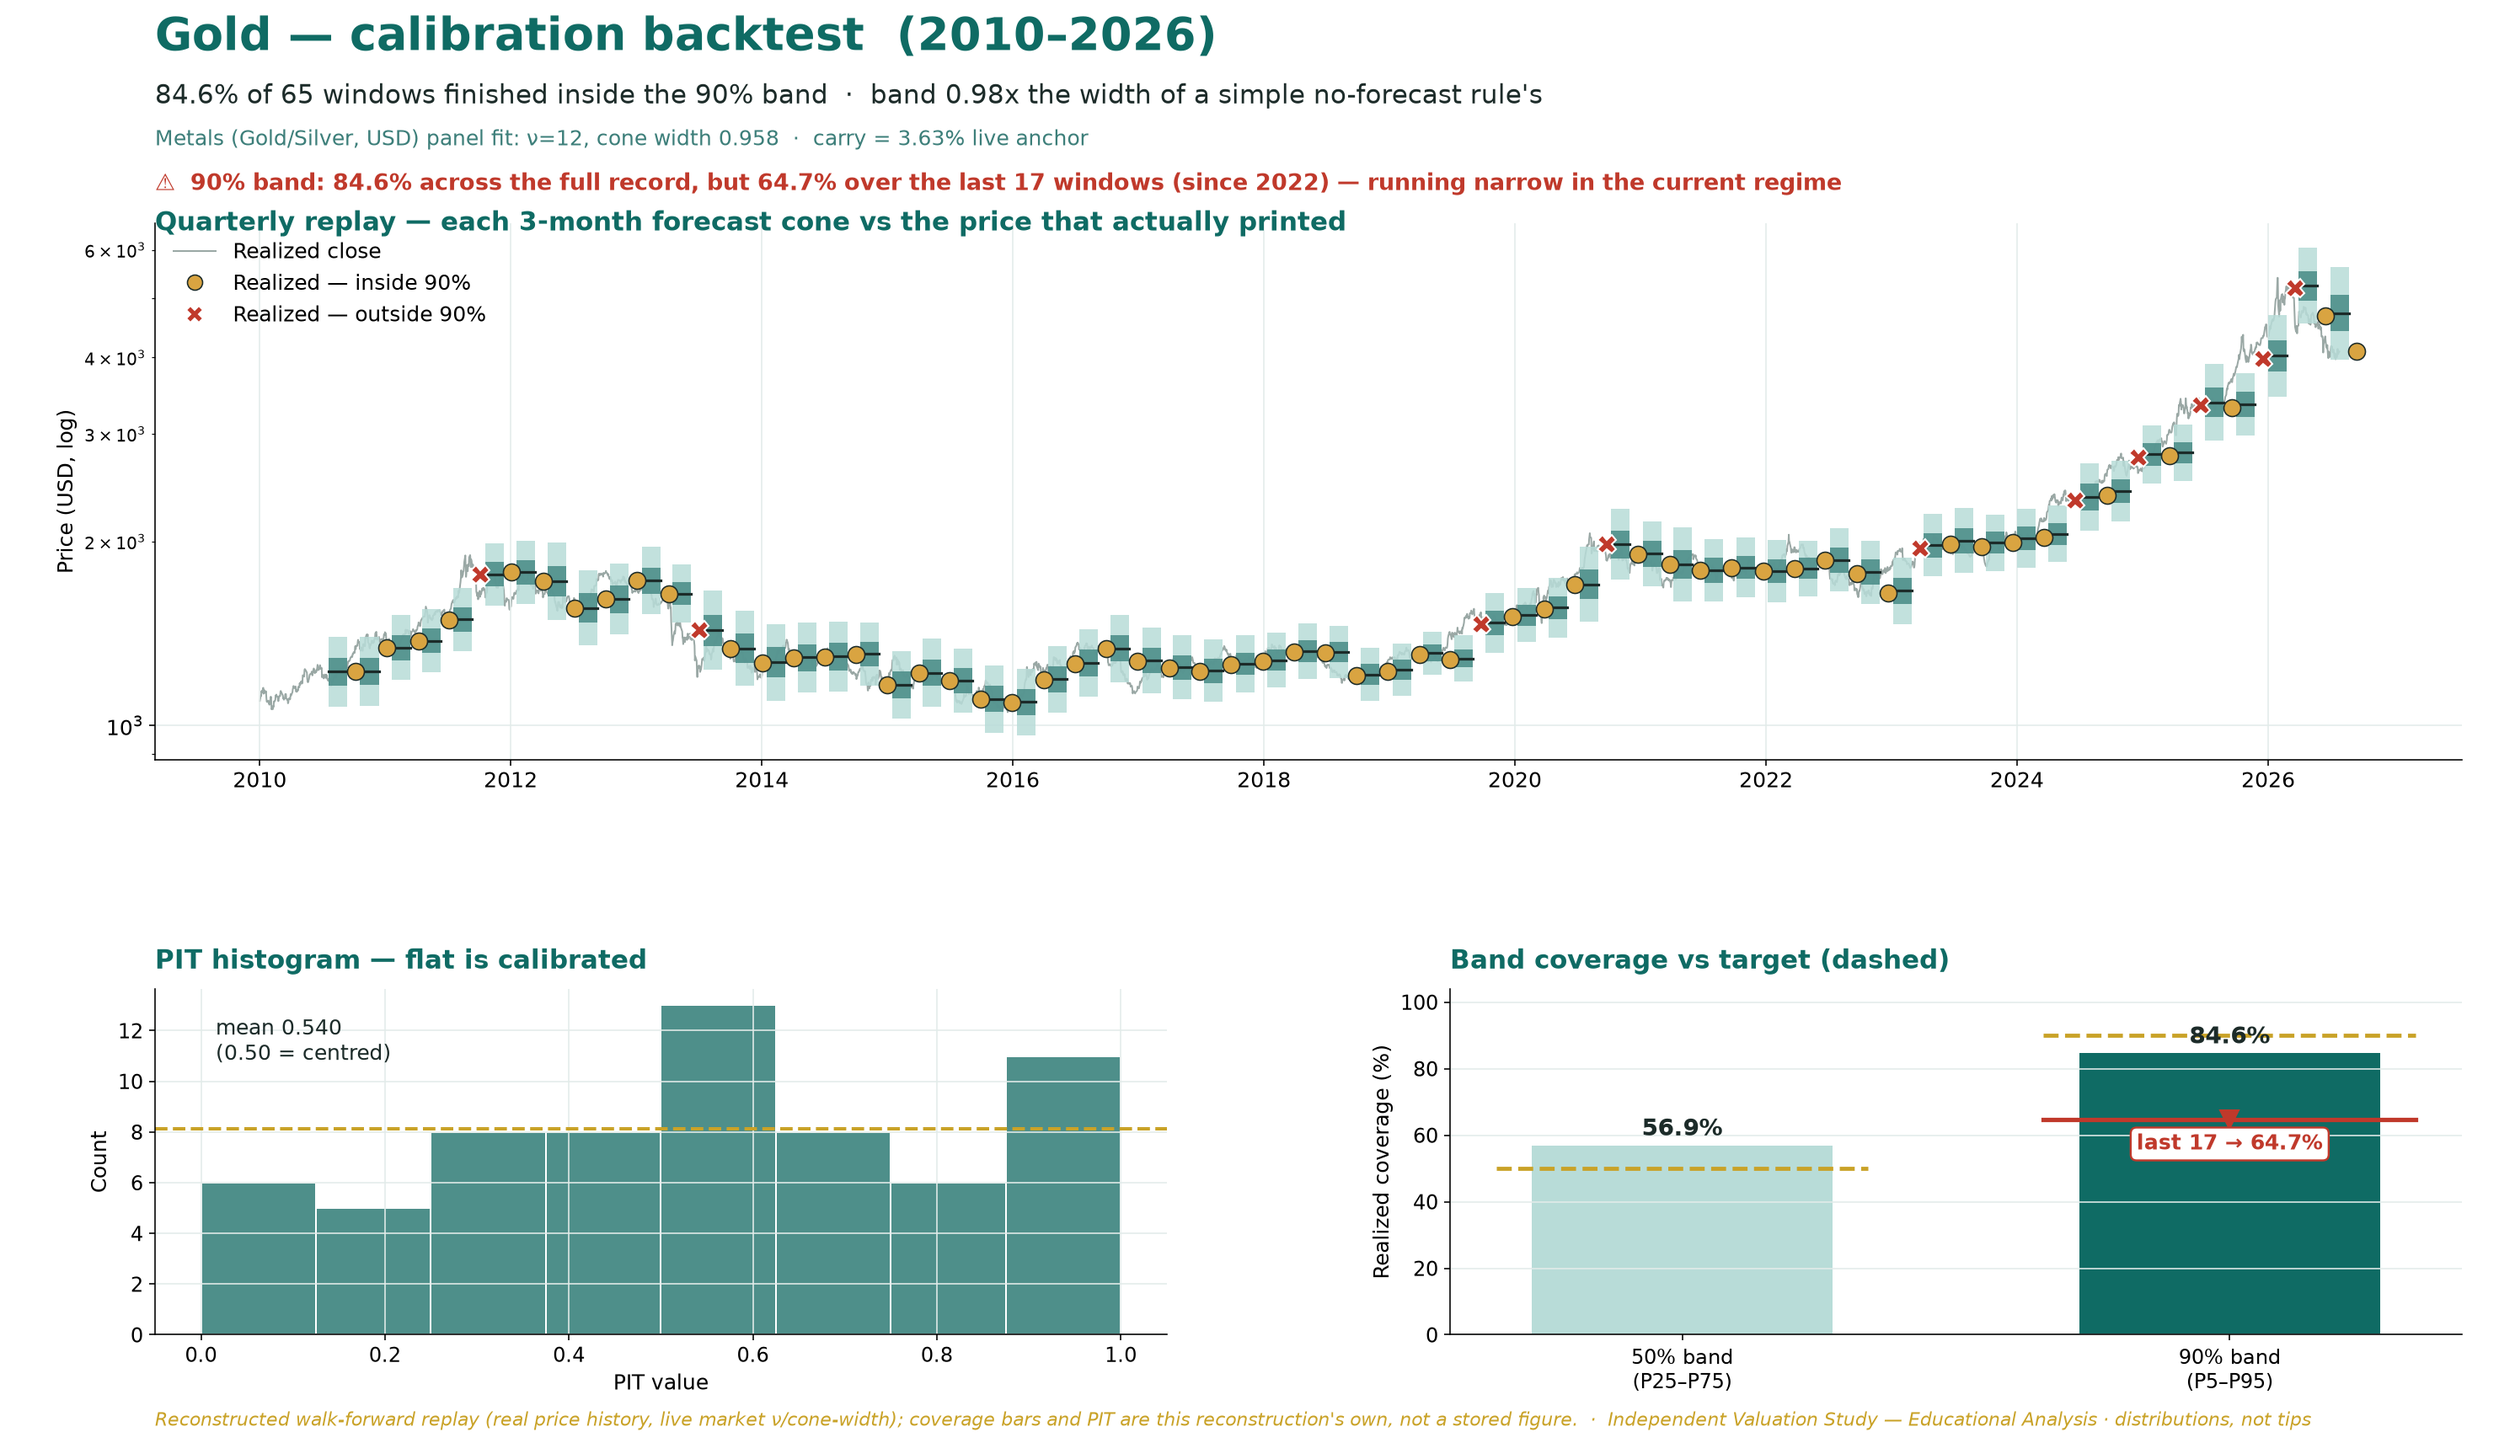
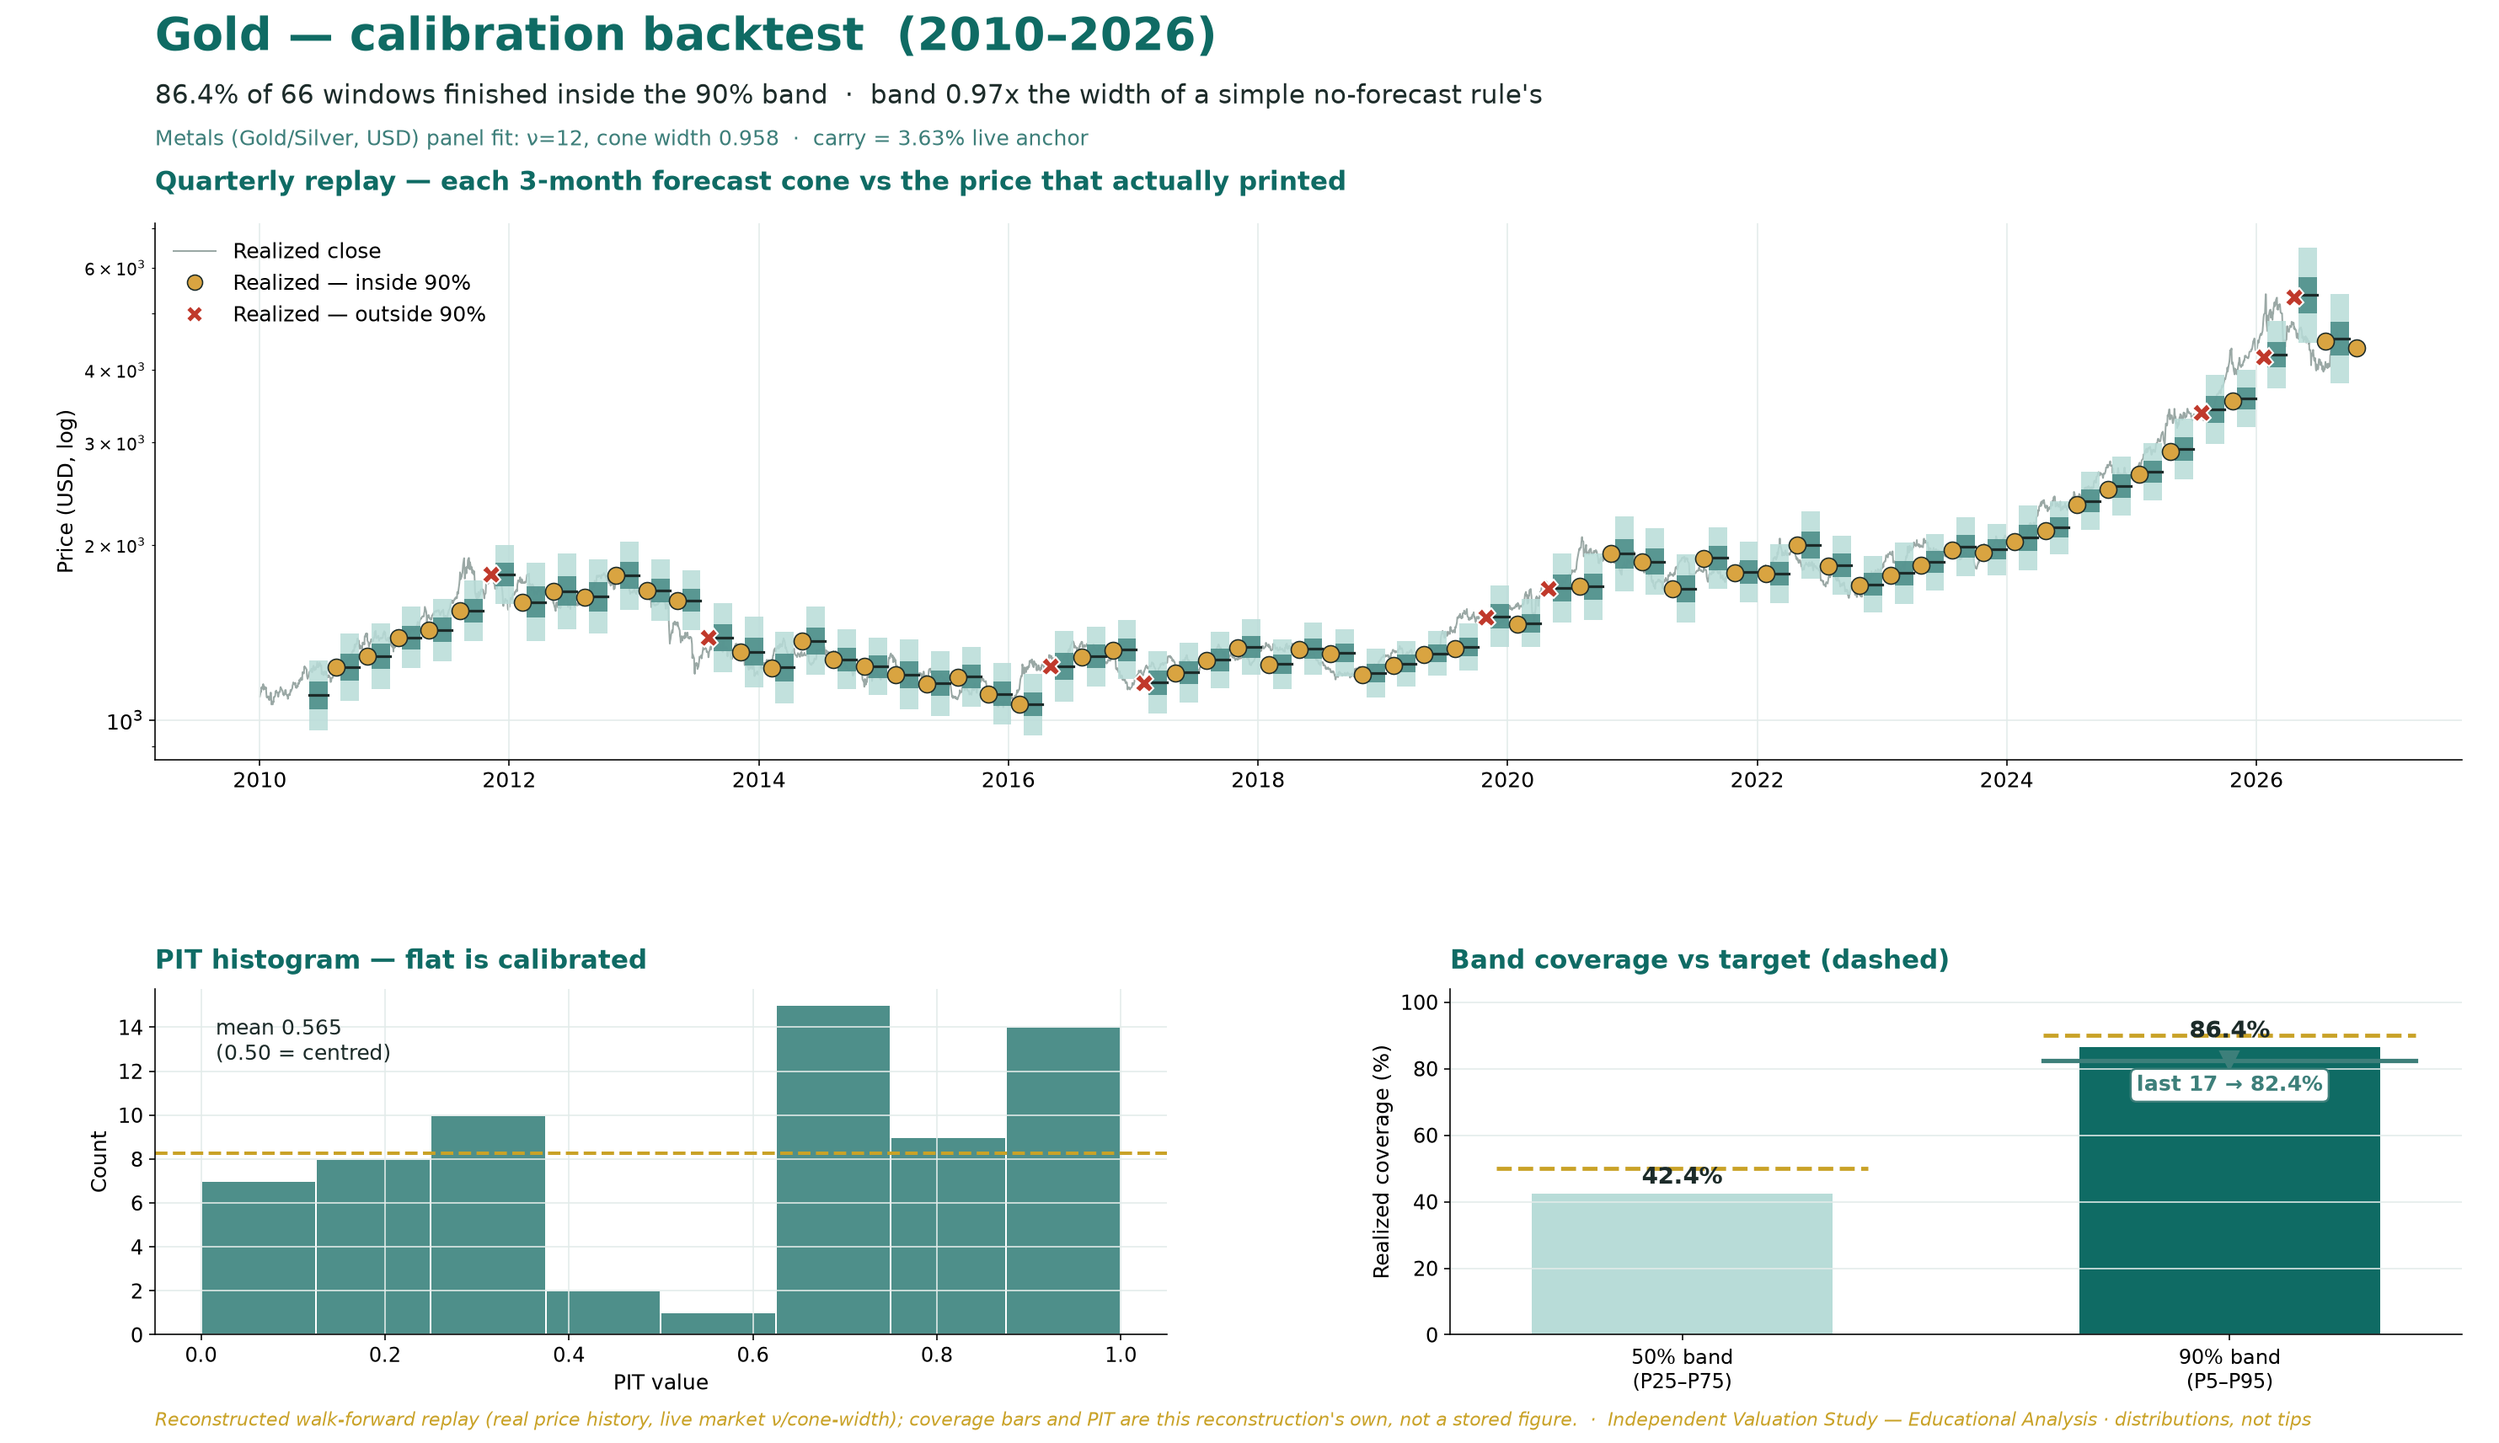
Republish GOLD to the website
Surfaces regenerated (sitemap/footer, feed, market registry, chart + technicals); freshness and page-integrity gates clean; verified by headless render.

diff --git a/legacy/assets/data.js b/legacy/assets/data.js
@@ -3688,9 +3688,9 @@ const LEDGER = [
     note:"Cycle 2 roll-forward, 27-Jul-2026. Production chain, no approximation: Step 0.0 data-quality gate \u2192 YZ variance proxy \u2192 fit_har_v3 \u2192 har_forecast_v3 \u2192 carry drift ln(1+rf_live)\u2212ln(1+q) \u2192 simulate_paths_v3, 50,000 paths, seed 42, signal OFF. q_annual=0 (FLAGGED \u2014 house convention; drift is a GROSS-OF-DIVIDEND price carry and overstates the centre by roughly the yield). Metals live fit nu=20, width_cal=1.035; rf_live 3.63% (USD carry, q=0 by construction for a zero-yield metal). METALS REMAINS THE WEAKEST CALIBRATION IN THE SYSTEM \u2014 a 2-name panel, read the cone accordingly.",
     p5:3725, p25:3948, p50:4102, p75:4263, p95:4516,
     touch:{ "+5":34, "+10":9, "+15":2, "+20":0, "-5":30, "-10":5 },
-    realized_close:null, realized_high:null, realized_low:null,
-    in_90:null, in_50:null, realized_quantile:null, median_err:null,
-    touch_hit:{ "+5":null, "+10":null, "+15":null, "+20":null, "-5":null, "-10":null }
+    realized_close:4602.15, realized_high:4697.1, realized_low:3996.05,
+    in_90:false, in_50:false, realized_quantile:null, median_err:0.1219,
+    touch_hit:{ "+5":true, "+10":true, "+15":false, "+20":false, "-5":false, "-10":false }
   ,
     grade_note:"Grade-date corrected on 2026-07-29: stored value (2026-08-24) was computed by the retired session-projection method at publish time; recomputed via the live calendar-target rule (horizons.resolve, anchor + calendar month(s), first real session on/after). Cohort not yet matured -- forecast (p5-p95, touch) unchanged."
   },
@@ -7243,6 +7243,35 @@ const LEDGER = [
     realized_close:null, realized_high:null, realized_low:null,
     in_90:null, in_50:null, realized_quantile:null, median_err:null,
     touch_hit:{ "+5":null, "+10":null, "+15":null, "+20":null, "-5":null, "-10":null }
+  },
+
+  // ---- 01-Sep-2026 single-name roll-forward: GOLD, struck on its own
+  //      latest library close. Append-only.
+  {
+    instrument:"Gold", asset_class:"metal",
+    anchor_date:"2026-09-01", run_date:"2026-09-01", anchor_price:4369.32, ccy:"USD",
+    horizon_label:"1 month", grade_date:"2026-10-01", grade_basis:"projected", horizon_days:22,
+    cycle_no:3, reanchor_from:"2026-07-27", anchor_vol:0.2097,
+    signal_z:0.0, signal_alpha:0.0,
+    note:"Cycle 3 roll-forward, 01-Sep-2026 — struck on the 01-Sep-2026 close, the latest session in this name’s library, off the monthly metronome — the prior cycle’s 1-month has not yet matured, so no cohort of that horizon is graded here. The previous cone was anchored 2026-07-27; every still-open cohort on cycle 2 stays OPEN and grades on its own terms; nothing retro-edited. Production chain, no approximation: Step 0.0 data-quality gate → YZ variance proxy → fit_har_v3 → har_forecast_v3 → carry drift ln(1+rf_live)−ln(1+q) → simulate_paths_v3, 50,000 paths, seed 42, signal OFF. q_annual=0 (q=0 is SOURCED, not defaulted: a spot metal pays no holder yield — the lease rate is a borrower’s cost, not a return to the holder — so the carry is rf alone.) XAU live fit nu=12.0, width_cal=0.958. rf_live 3.63% Fed funds midpoint schedule (USD cost-of-carry anchor). No direction call: this market carries no surviving momentum cell, so the cone is carry-centered. Horizons resolved by horizons.resolve() on XAU’s own realized calendar — a calendar commitment, not a session count; the session counts (h=22 / 65) size the cone only.",
+    p5:3982.91, p25:4222.87, p50:4381.36, p75:4548.44, p95:4825.14,
+    touch:{ "+5":34, "+10":9, "+15":2, "+20":0, "-5":29, "-10":5 },
+    realized_close:null, realized_high:null, realized_low:null,
+    in_90:null, in_50:null, realized_quantile:null, median_err:null,
+    touch_hit:{ "+5":null, "+10":null, "+15":null, "+20":null, "-5":null, "-10":null }
+  },
+  {
+    instrument:"Gold", asset_class:"metal",
+    anchor_date:"2026-09-01", run_date:"2026-09-01", anchor_price:4369.32, ccy:"USD",
+    horizon_label:"3 months", grade_date:"2026-12-01", grade_basis:"projected", horizon_days:65,
+    cycle_no:3, reanchor_from:"2026-07-27", anchor_vol:0.2065,
+    signal_z:0.0, signal_alpha:0.0,
+    note:"Cycle 3 roll-forward, 01-Sep-2026 — struck on the 01-Sep-2026 close, the latest session in this name’s library, off the monthly metronome — the prior cycle’s 1-month has not yet matured, so no cohort of that horizon is graded here. The previous cone was anchored 2026-07-27; every still-open cohort on cycle 2 stays OPEN and grades on its own terms; nothing retro-edited. Production chain, no approximation: Step 0.0 data-quality gate → YZ variance proxy → fit_har_v3 → har_forecast_v3 → carry drift ln(1+rf_live)−ln(1+q) → simulate_paths_v3, 50,000 paths, seed 42, signal OFF. q_annual=0 (q=0 is SOURCED, not defaulted: a spot metal pays no holder yield — the lease rate is a borrower’s cost, not a return to the holder — so the carry is rf alone.) XAU live fit nu=12.0, width_cal=0.958. rf_live 3.63% Fed funds midpoint schedule (USD cost-of-carry anchor). No direction call: this market carries no surviving momentum cell, so the cone is carry-centered. Horizons resolved by horizons.resolve() on XAU’s own realized calendar — a calendar commitment, not a session count; the session counts (h=22 / 65) size the cone only.",
+    p5:3752.26, p25:4139.43, p50:4411.09, p75:4702.87, p95:5185.39,
+    touch:{ "+5":59, "+10":32, "+15":15, "+20":7, "-5":51, "-10":22 },
+    realized_close:null, realized_high:null, realized_low:null,
+    in_90:null, in_50:null, realized_quantile:null, median_err:null,
+    touch_hit:{ "+5":null, "+10":null, "+15":null, "+20":null, "-5":null, "-10":null }
   }
 ];
 
@@ -7371,25 +7400,28 @@ const METALS = {
     unit: "دولار للأونصة",   // Arabic unit (AR feed)
     unitEn: "USD/oz",         // English unit (EN feed)
     nameAr: "الذهب",          // Arabic display name (AR feed)
- name:"Gold", code:"XAU/USD", spot:4090.87, spotDate:"close 27 Jul 2026", ccy:"USD",
+ name:"Gold", code:"XAU/USD", spot:4369, spotDate:"close 01 Sep 2026", ccy:"USD",
  fair:{ bear:4200, base:4600, full:5000 },
- dist:{
-   t20:{ label:"1 month",  p5:3731.05, p25:3954.13, p50:4103.08, p75:4258.48, p95:4514.88, resolve:"2026-08-27" },
-   t60:{ label:"3 months", p5:3516.74, p25:3876.91, p50:4129.38, p75:4397.44, p95:4852.47, resolve:"2026-10-27" },
+ dist: {
+   t20: { label:"1 month",   p5:3983, p25:4223, p50:4381, p75:4548, p95:4825, resolve:"2026-10-01" },
+   t60: { label:"3 months",  p5:3752, p25:4139, p50:4411, p75:4703, p95:5185, resolve:"2026-12-01" },
    t252:{ label:"12 months", p5:3139.64, p25:3778.26, p50:4241.75, p75:4761.14, p95:5721.35, resolve:"2027-06-25" }
  },
- hz: { h1:23, h3:66, l1:"1 month", l3:"3 months", cal:true },
- touch:[[4800,1,11],[4600,4,22],[4500,9,31],[4300,33,58],[4200,57,75],[3800,15,36],[3700,6,23],[3600,2,14],[3500,1,8]],
- levels: { res:[4230, 4382, 4577], sup:[3967, 3420, 3270] },
+ hz: { h1:22, h3:65, l1:"1 month", l3:"3 months", cal:true },
+ fit: { nu:12, cal:0.958, mult:1, eff:0.958, on:"2026-09-01" },
+ touch: [ /* descending high -> low */
+   [4800, 9, 32], [4600, 32, 57], [4500, 54, 73], [4300, 67, 79], [4200, 39, 59], [3800, 2, 12], [3700, 1, 7], [3600, 0, 4], [3500, 0, 2]
+ ],
+ levels: { res:[4501, 4577, 4697], sup:[4209, 3973, 3420] },
  tech: {
-   trend: "Mixed against the moving-average stack, below a flat 200-day; fresh death-cross",
-   summary: "The price closed 4091 below a falling 50-day (4206) and a flat 200-day (4494), but above a falling 20-day (4077). Momentum is neutral: RSI(14) is ~48 and the daily ATR near 86 (~2.1%) points to a normal tape. MACD (12\u00b726\u00b79) is below zero but turning up (\u221234 / \u221250 / +16). The 50-day crossed beneath the 200-day 24 sessions ago. Over the last year it has ranged 3311\u20135595; the last close sits 27% below that high and 24% above that low.",
-   bull: "A daily close back above 4230 would clear the nearest resistance; the next charted level above it is 4577.",
-   bear: "A close below 3967 would break the nearest support; the next charted level below it is 3270."
+   trend: "Mixed against the moving-average stack, below a rising 200-day",
+   summary: "The price closed 4369 below a rising 20-day (4445) and a rising 200-day (4533), but above a rising 50-day (4218). Momentum is neutral: RSI(14) is ~49 and the daily ATR near 101 (~2.3%) points to a normal tape. MACD (12\u00b726\u00b79) is above zero but rolling over (+82 / +100 / \u221217). Over the last year it has ranged 3628\u20135595; the last close sits 22% below that high and 20% above that low.",
+   bull: "A daily close back above 4501 would clear the nearest resistance; the next charted level above it is 4697.",
+   bear: "A close below 4209 would break the nearest support; the next charted level below it is 3420."
  },
  asof: {
-   mc:   { data:"2026-07-27", computed:"2026-07-27" },
-   tech: { data:"2026-07-27", computed:"2026-08-31" }
+   mc:   { data:"2026-09-01", computed:"2026-09-01" },
+   tech: { data:"2026-09-01", computed:"2026-09-01" }
  },
  files:{
    study:"files/XAUUSD_Valuation_Study_25-06-2026_public.docx?v=2506",
